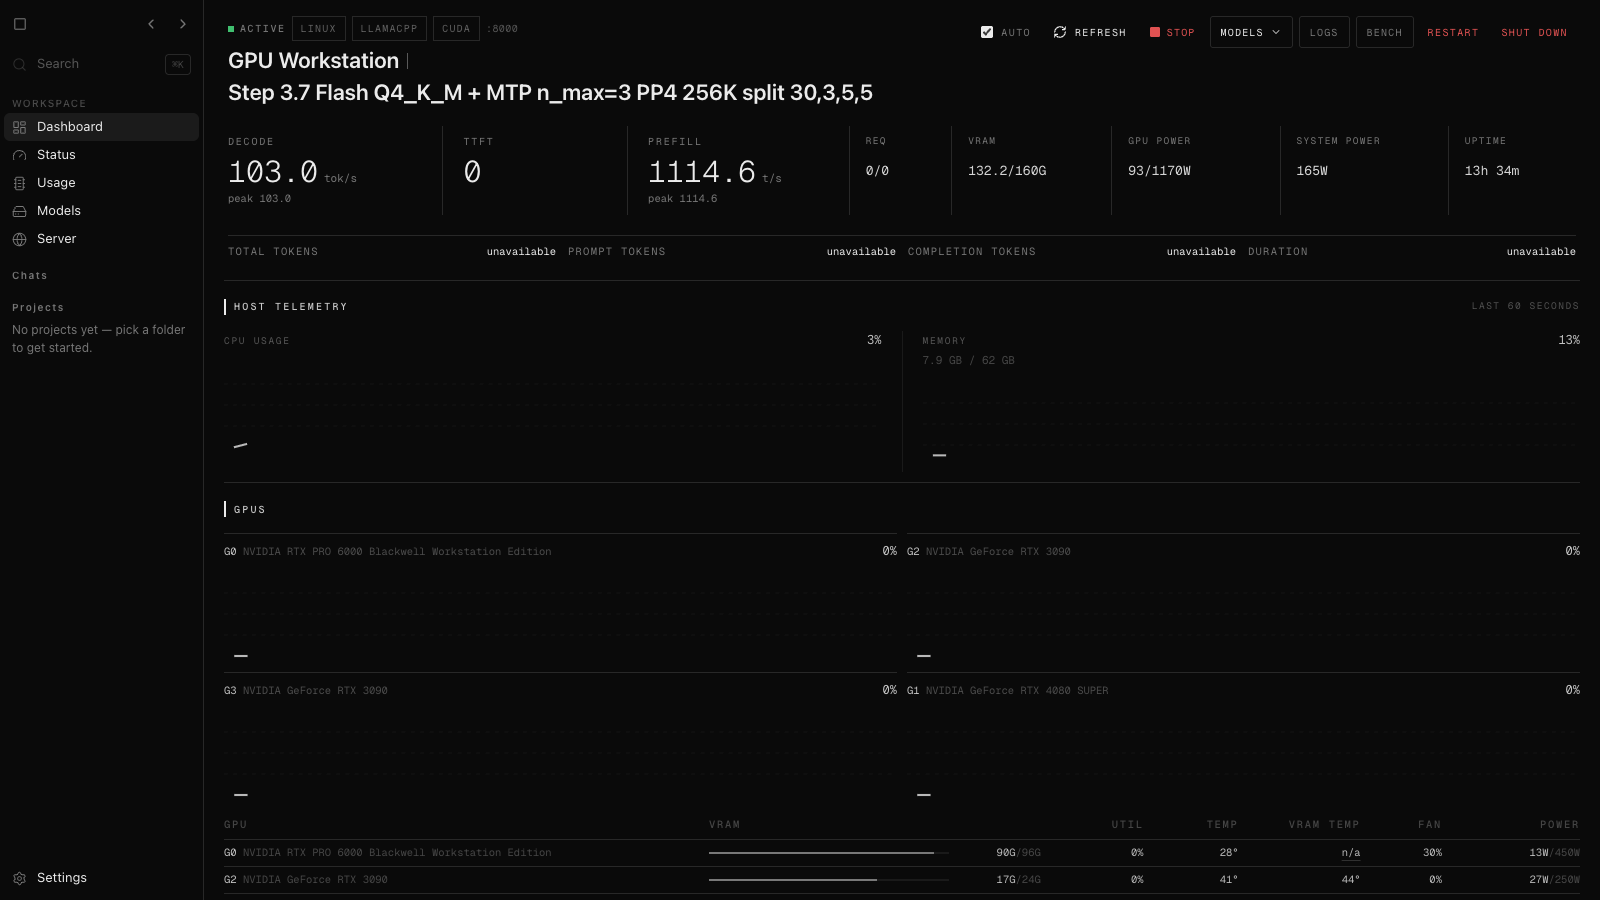
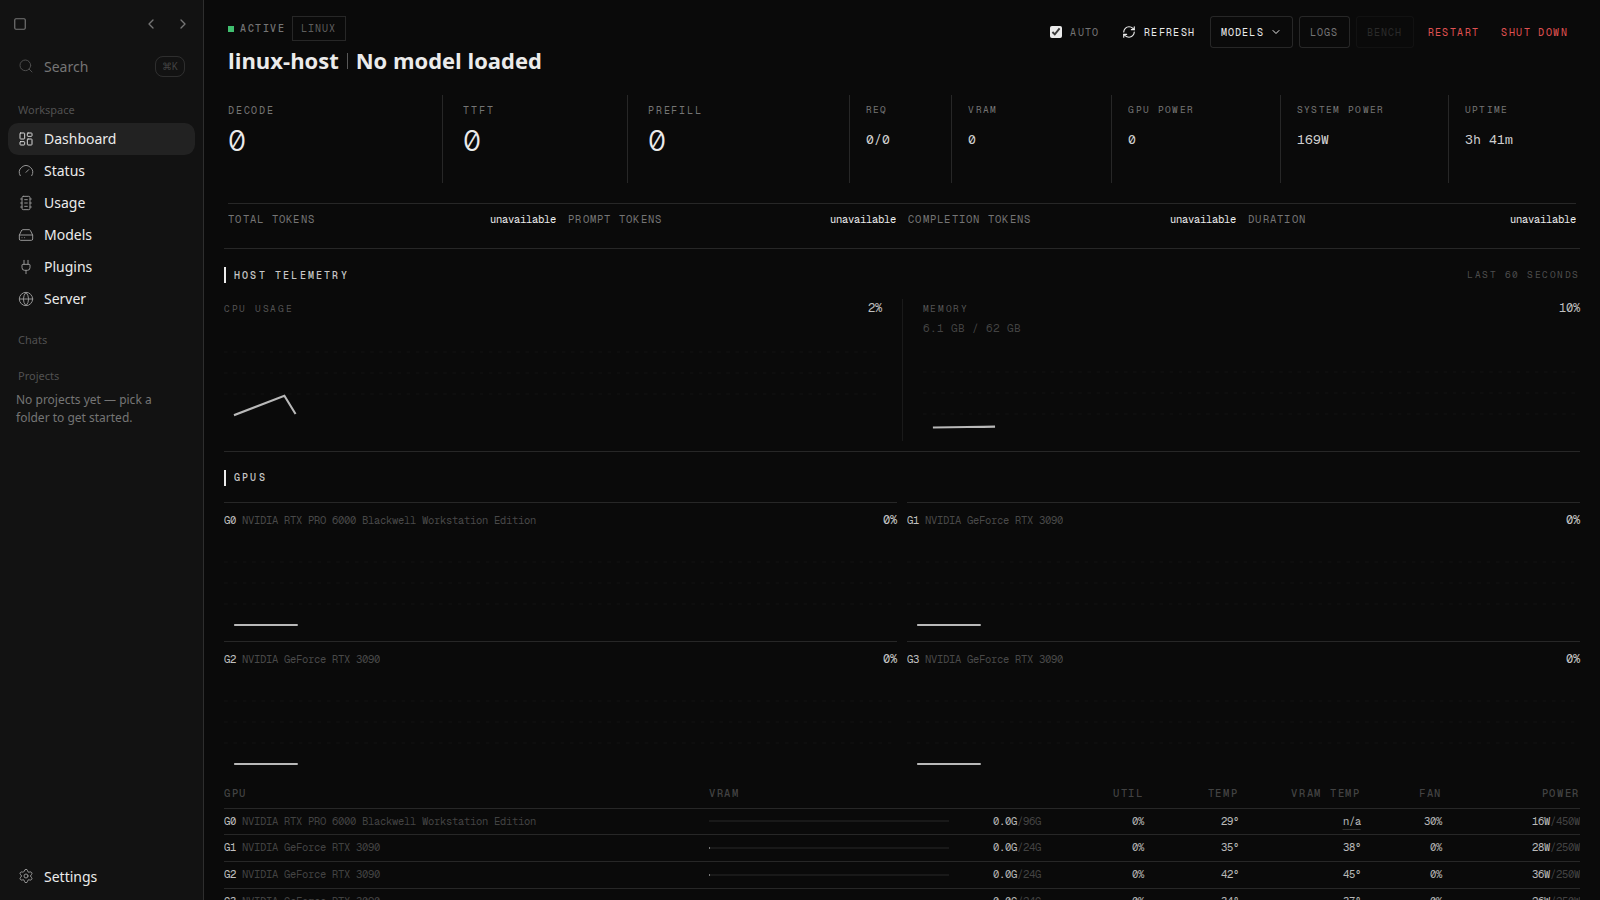
docs: refresh readme screenshots

diff --git a/README.md b/README.md
@@ -2,6 +2,15 @@
 
 vLLM Studio is a local-first workstation for running, managing, and using self-hosted LLM backends. It combines a controller API, a Next.js/Electron interface, and a small CLI so one machine can launch models, watch GPU/runtime state, chat with OpenAI-compatible endpoints, and run agent sessions against local or remote controllers.
 
+
+## Screenshots
+
+![Dashboard overview](docs/images/dashboard.png)
+
+![Model recipes](docs/images/models.png)
+
+![Usage analytics](docs/images/usage.png)
+
 ## What Is A Controller?
 
 A controller is the backend process that the UI and CLI talk to. In this repo it is the Bun/Hono server in `controller/`.